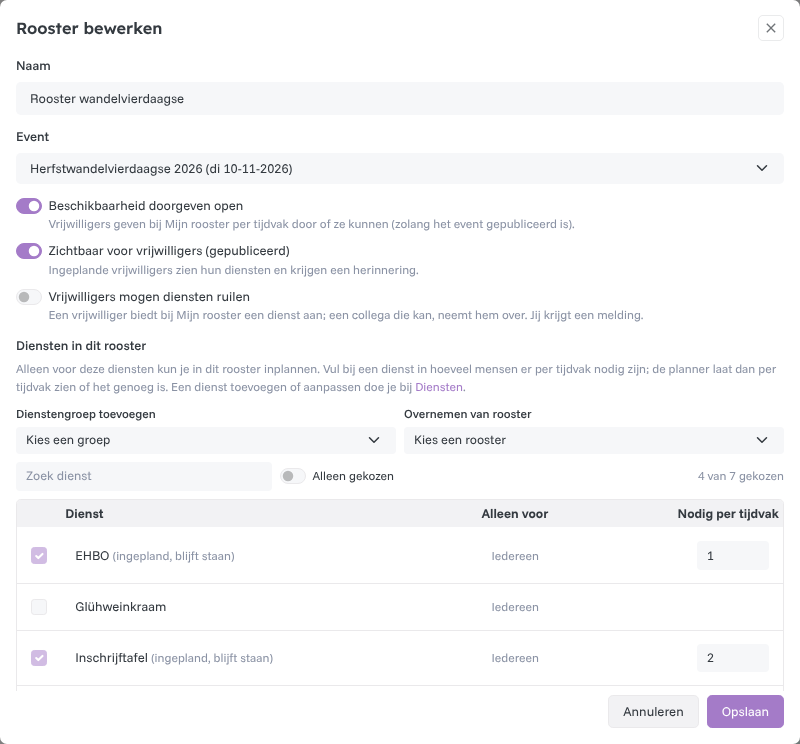
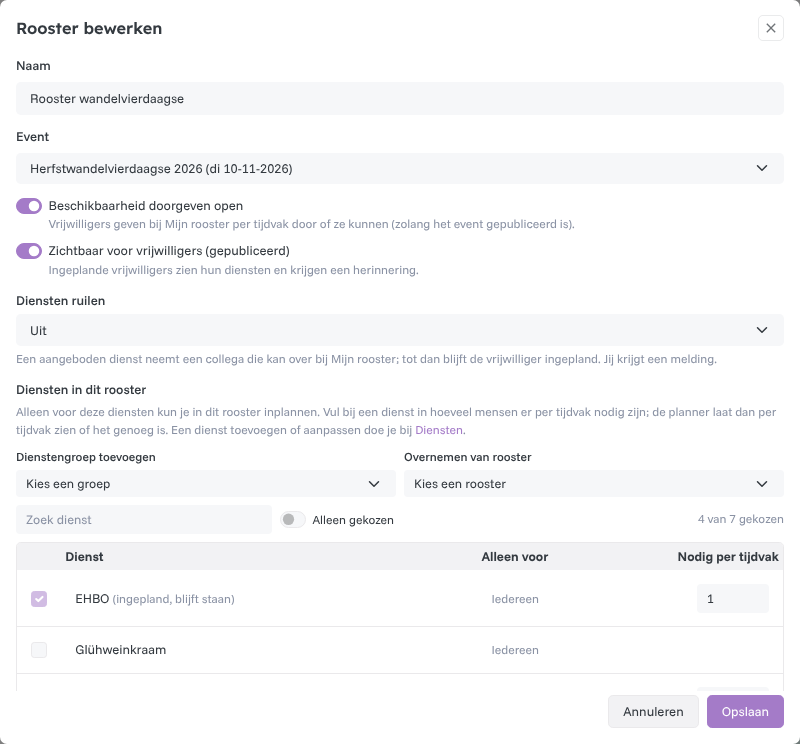
Diensten ruilen door roostermakers in de handleiding, met screenshots
Demo: Kerstmarkt swap_mode volunteers, and the planner offers Teun his collection round.

Claude-Session: https://claude.ai/code/session_01XbTwMg7wxJwi4JQw7oTKWb

diff --git a/tools/screenshots/seed.js b/tools/screenshots/seed.js
@@ -246,7 +246,7 @@ async function volunteersWork(t) {
         state.slots.walk.push(await slot(state.schedules.walk, { starts_at: at(d, '17:30'), ends_at: at(d, '21:30'), note: i === 3 ? 'Avond 4 (intocht)' : `Avond ${i + 1}` }));
     }
     // The Kerstmarkt: building up, the stalls, and collection rounds for the jumble stall (Pick-Up)
-    state.schedules.xmas = await schedule(state.events.xmas, 'Kerstmarkt opbouw en kramen', [S.build, S.bar, S.pickup], { allow_swaps: true });
+    state.schedules.xmas = await schedule(state.events.xmas, 'Kerstmarkt opbouw en kramen', [S.build, S.bar, S.pickup], { swap_mode: 'volunteers' });
     state.slots.xmas = [
         await slot(state.schedules.xmas, { starts_at: at(XMAS, '09:00'), ends_at: at(XMAS, '13:00'), note: 'Opbouw' }),
         await slot(state.schedules.xmas, { starts_at: at(XMAS, '14:00'), ends_at: at(XMAS, '17:30'), note: 'Middag' }),
@@ -297,6 +297,8 @@ async function volunteersWork(t) {
     await api('PUT', `/schedules/${state.schedules.xmas}/planning`, { token: t, body: { slot_uuid: state.slots.xmas[1], employee_uuid: E[VOLUNTEERS[1].email], task_uuid: S.bar } });
     const koen = (await api('POST', '/login', { body: { username: VOLUNTEERS[1].email, password: PASSWORD }, tenant: null })).token;
     await api('POST', `/me/schedule/shifts/${state.slots.xmas[1]}/offer`, { token: koen, body: {} });
+    // And the planner offers Teun's collection round (Teun called in sick): Aangeboden diensten on the roster
+    await api('POST', `/schedules/${state.schedules.xmas}/swaps`, { token: t, body: { slot_uuid: state.slots.pickup[0], employee_uuid: E[VOLUNTEERS[2].email] } });
 
     // Addresses for the first collection round, some already done
     const streets = [['Molenweg', 12], ['Beukenlaan', 3], ['Kerkstraat', 27], ['Dijkweg', 8], ['Vlietkade', 41], ['Polderweg', 5], ['Raadhuisstraat', 16], ['Schoolstraat', 9]];

diff --git a/tools/screenshots/capture.js b/tools/screenshots/capture.js
@@ -127,6 +127,8 @@ const SHOTS = [
         await p.waitForSelector('[data-planner-list] [data-assign]');
         await wait(400);
     } },
+    // Diensten ruilen: the open offers above the roster, one by the volunteer, one by the planner
+    { name: 'schedule-swaps', url: () => `schedule?uuid=${D.schedules.xmas}`, element: '[data-swaps-card]' },
     { name: 'checklists', url: 'checklists' },
     { name: 'checklist', url: () => `checklist?uuid=${D.checklist}` },
     { name: 'survey', url: () => `survey?uuid=${D.survey}` },

diff --git a/roosters.md b/roosters.md
@@ -64,8 +64,8 @@ nog losse diensten aan- of uitzetten. Een groep later wijzigen verandert rooster
    - **Beschikbaarheid doorgeven open**: vrijwilligers kunnen hun beschikbaarheid doorgeven;
    - **Zichtbaar voor vrijwilligers (gepubliceerd)**: vrijwilligers zien waarvoor ze zijn ingepland. Laat dit uit tot de
      planning klaar is.
-   - **Vrijwilligers mogen diensten ruilen**: een vrijwilliger kan een dienst aanbieden en een collega kan hem overnemen
-     (zie [Diensten ruilen](#diensten-ruilen)). Standaard uit.
+   - **Diensten ruilen**: of een dienst ter overname kan worden aangeboden, en door wie (zie
+     [Diensten ruilen](#diensten-ruilen)). Standaard uit.
 3. Open het rooster en kies **Tijdvakken**. Voeg de tijdvakken toe. Een nieuw tijdvak begint waar het vorige eindigde
    en duurt even lang, dus een reeks maken gaat snel.
 4. Kies welke **diensten** in dit rooster gebruikt worden. Dat kan meteen bij het aanmaken, of later bij **Bewerken**:
@@ -143,10 +143,27 @@ Handige hulpmiddelen:
 
 ## Diensten ruilen
 
-Staat bij een rooster **Vrijwilligers mogen diensten ruilen** aan, dan kan een vrijwilliger die niet kan een dienst
-**aanbieden** in Mijn rooster. Collega's zien het aanbod bovenaan hun Mijn rooster en krijgen een pushmelding
-(eerst wie voor dat event *Kan* of *Misschien* zei). Wie de dienst **overneemt**, staat meteen ingepland in plaats van de
-ander; de planner hoeft niets te doen en krijgt een pushmelding.
+Bij **Bewerken** van een rooster kies je bij **Diensten ruilen**:
+
+- **Uit**: niemand biedt diensten aan (standaard).
+- **Alleen door roostermakers**: jij biedt een dienst aan, bijvoorbeeld als iemand zich ziek meldt. Vrijwilligers
+  kunnen zelf niets aanbieden; bij hun dienst staat dat ze contact opnemen met de roostermaker.
+- **Ook door vrijwilligers**: een vrijwilliger die niet kan, biedt de eigen dienst zelf **aan** in Mijn rooster. Jij kunt
+  ook aanbieden.
+
+Een dienst aanbieden doe je in de **dienstenplanner** (Plannen → Dienstenplanner). Naast elke ingeplande vrijwilliger
+staat een ruilknop: klik erop en de dienst is aangeboden (de knop wordt geel). Nog een keer klikken trekt het aanbod in.
+De vrijwilliger krijgt een melding dat de dienst is aangeboden en blijft ingepland tot iemand hem overneemt.
+
+Collega's zien het aanbod bovenaan hun Mijn rooster en krijgen een pushmelding (eerst wie voor dat tijdvak *Kan* of
+*Misschien* zei). Wie de dienst **overneemt**, staat meteen ingepland in plaats van de ander; de planner hoeft niets te
+doen en krijgt een pushmelding.
+
+Boven het rooster staat de kaart **Aangeboden diensten**: alle open aanbiedingen, met wie het is, wie de dienst aanbood
+en sinds wanneer. **In de planner** opent de dienstenplanner bij dat tijdvak, **Intrekken** trekt het aanbod in (ook als
+de vrijwilliger het zelf deed).
+
+![Aangeboden diensten]({{ '/assets/images/schedule-swaps.png' | relative_url }})
 
 - Een collega kan een dienst niet overnemen als die op die tijd al is ingepland, de rol mist (**Alleen voor**) of te jong
   is (**Vanaf leeftijd**). De reden staat bij het aanbod.

diff --git a/voor-vrijwilligers.md b/voor-vrijwilligers.md
@@ -57,8 +57,9 @@ Je ziet alleen diensten in roosters die de organisatie al heeft gepubliceerd.
 
 ### Een dienst ruilen
 
-Kun je toch niet? Als de organisatie ruilen voor het rooster heeft aangezet, staat bij je dienst de knop **Dienst
-aanbieden**. Je collega's zien hem dan en krijgen een melding. Tot iemand hem overneemt, blijf je zelf ingepland; met
+Kun je toch niet? Mogen vrijwilligers in dit rooster zelf ruilen, dan staat bij je dienst de knop **Dienst
+aanbieden**. Doet alleen de roostermaker dat, dan staat er dat je contact opneemt met de roostermaker; heeft die je
+dienst aangeboden, dan zie je dat bij de dienst (intrekken doet de roostermaker dan ook). Je collega's zien hem dan en krijgen een melding. Tot iemand hem overneemt, blijf je zelf ingepland; met
 **Aanbod intrekken** trek je hem terug. Neemt een collega hem over, dan krijg je een melding en staat de dienst niet
 meer in je rooster.
 
